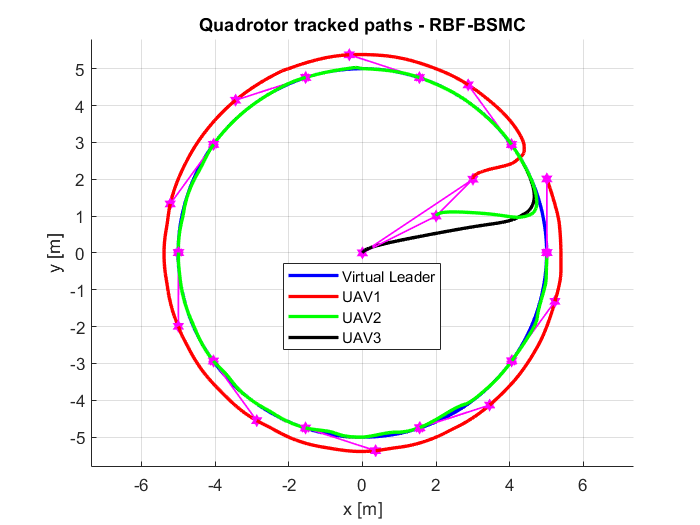
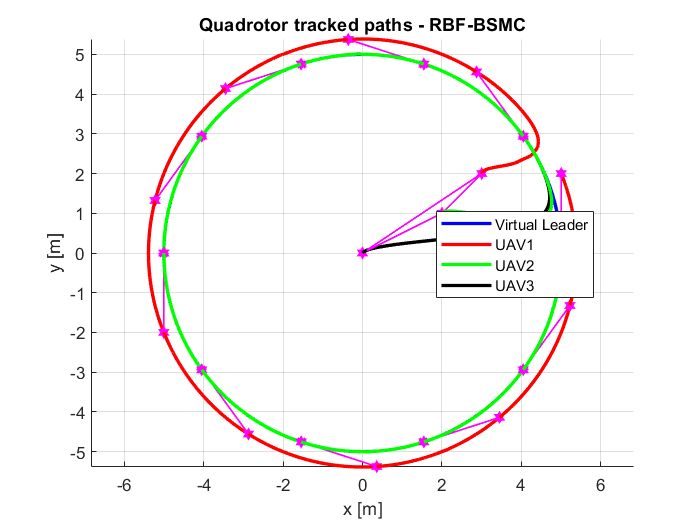
Update RBFNN code

diff --git a/plot_result.m b/plot_result.m
@@ -1,17 +1,17 @@
 close all;
 
-ref_file = load('ref.mat');
-dis_file = load('dis.mat');
-pos_1_file = load('pos_1.mat');
-est_1_file = load('est_1.mat');
-pos_2_file = load('pos_2.mat');
-est_2_file = load('est_2.mat');
-pos_3_file = load('pos_3.mat');
-est_3_file = load('est_3.mat');
+ref_file = load('results/ref.mat');
+dis_file = load('results/dis.mat');
+pos_1_file = load('results/pos1.mat');
+est_1_file = load('results/est1.mat');
+pos_2_file = load('results/pos2.mat');
+est_2_file = load('results/est2.mat');
+pos_3_file = load('results/pos3.mat');
+est_3_file = load('results/est3.mat');
 
-pos_4_file = load('pos_4.mat');
-pos_5_file = load('pos_5.mat');
-pos_6_file = load('pos_6.mat');
+pos_4_file = load('results/pos4.mat');
+pos_5_file = load('results/pos5.mat');
+pos_6_file = load('results/pos6.mat');
 
 time = ref_file.ans.Time;
 ref = ref_file.ans.Data;
@@ -22,12 +22,25 @@ pos2 = pos_2_file.ans.Data;
 est2 = est_2_file.ans.Data;
 pos3 = pos_3_file.ans.Data;
 est3 = est_3_file.ans.Data;
-
 pos4 = pos_4_file.ans.Data;
 pos5 = pos_5_file.ans.Data;
 pos6 = pos_6_file.ans.Data;
 
+ref(:,3) = ref(:,3) + 3;
+pos1(:,3) = pos1(:,3)+3;
+pos2(:,3) = pos2(:,3)+3;
+pos3(:,3) = pos3(:,3)+3;
+pos4(:,3) = pos4(:,3)+3;
+pos5(:,3) = pos5(:,3)+3;
+pos6(:,3) = pos6(:,3)+3;
 
+csvwrite('scen2_time.csv',time);
+csvwrite('scen2_ref.csv',ref);
+csvwrite('scen2_pos1.csv',pos1);
+csvwrite('scen2_pos2.csv',pos2);
+csvwrite('scen2_pos3.csv',pos3);
+csvwrite('scen2_dis.csv',dis);
+%return;
 %% 3D trajectory
 % RBFNN
 figure();
@@ -155,6 +168,7 @@ plot(time, est3(:,1), ':k', 'LineWidth', 2,'DisplayName','UAV3');
 xlabel('Time [s]');
 ylabel('x-axis [N]');
 legend('Location', 'best');
+ylim([-5,25]);
 
 subplot(312);
 hold on; grid on;
@@ -165,6 +179,7 @@ plot(time, est3(:,2), ':k', 'LineWidth', 2,'DisplayName','UAV3');
 xlabel('Time [s]');
 ylabel('y-axis [N]');
 legend('Location', 'best');
+ylim([-5,25]);
 
 subplot(313);
 hold on; grid on;
@@ -175,6 +190,7 @@ plot(time, est3(:,3), ':k', 'LineWidth', 2,'DisplayName','UAV3');
 xlabel('Time [s]');
 ylabel('z-axis [N]');
 legend('Location', 'best');
+ylim([-5,25]);
 
 %% External disturbance
 figure();

diff --git a/parameter.m b/parameter.m
@@ -8,9 +8,11 @@ global lamdap gammap rhop
 global lamdaa gammaa rhoa
 global b alpha beta n eta
 global whatp whatp1 whatp2 mup1 mup2
+global ws ss
 
 Ts = 0.01;  % time step [s]
-
+ws = [];
+ss = [];
 %% Quadrotor UAV parameters
 m = 1.0;    % The mass of UAV [kg]
 g = 9.81;   % The gravity acceleratin [m/s2]
@@ -32,7 +34,7 @@ rhoa = 2;
 
 %% RBF model parameters
 n = 50;
-b = 10;
+b = 20;
 alpha = 0.2;
 beta = 0.3;
 eta = 0.2;

diff --git a/lref.m b/lref.m
@@ -8,6 +8,14 @@ yd = 5*sin(2*pi/20*t);
 zd = 0.5*t+2;
 psid = 2*pi/20*t + pi/2;
 
+% xd = 10*sin(t/20) + 2*cos(t/40);
+% yd = 15*cos(t/15) - 5*sin(t/5) - 15;
+% zd = 0.5*sin(t/2) - 1*sin(t/2)^2 + 2;
+% 
+% dxd = 1/2*cos(t/20) - 1/20*sin(t/40);
+% dyd = -sin(t/15) - cos(t/5);
+% psid = atan2(dyd,dxd);
+
 y = [xd;yd;zd;psid];
 end
 

diff --git a/rbf_pos.m b/rbf_pos.m
@@ -6,6 +6,7 @@ Xp2 = u(7:9);
 
 global b alpha beta n eta
 global whatp whatp1 whatp2 mup1 mup2
+global ws ss
  
 h = zeros(n,1);
 for i = 1:n
@@ -22,5 +23,8 @@ whatp2 = whatp1;
 whatp1 = whatp;
 
 y = whatp'*h;
+
+ws = [ws, norm(whatp)];
+ss = [ss, norm(sp)];
 end
 

diff --git a/attitude_control.m b/attitude_control.m
@@ -21,7 +21,7 @@ f = [q*r*(Iy-Iz); p*r*(Iz-Ix); p*q*(Ix-Iy)];
 Ia = diag([Ix,Iy,Iz]);
 
 Uaeq = Ia*(-gammaa*(Xa_dot-Xad_dot)+Vad_dot)-f;
-Uasw = -rhoa*sg(sa) - rhoa*sa;
+Uasw = -Ia*(rhoa*sg(sa) + rhoa*sa);
 y = Uaeq+Uasw;
 end
 
